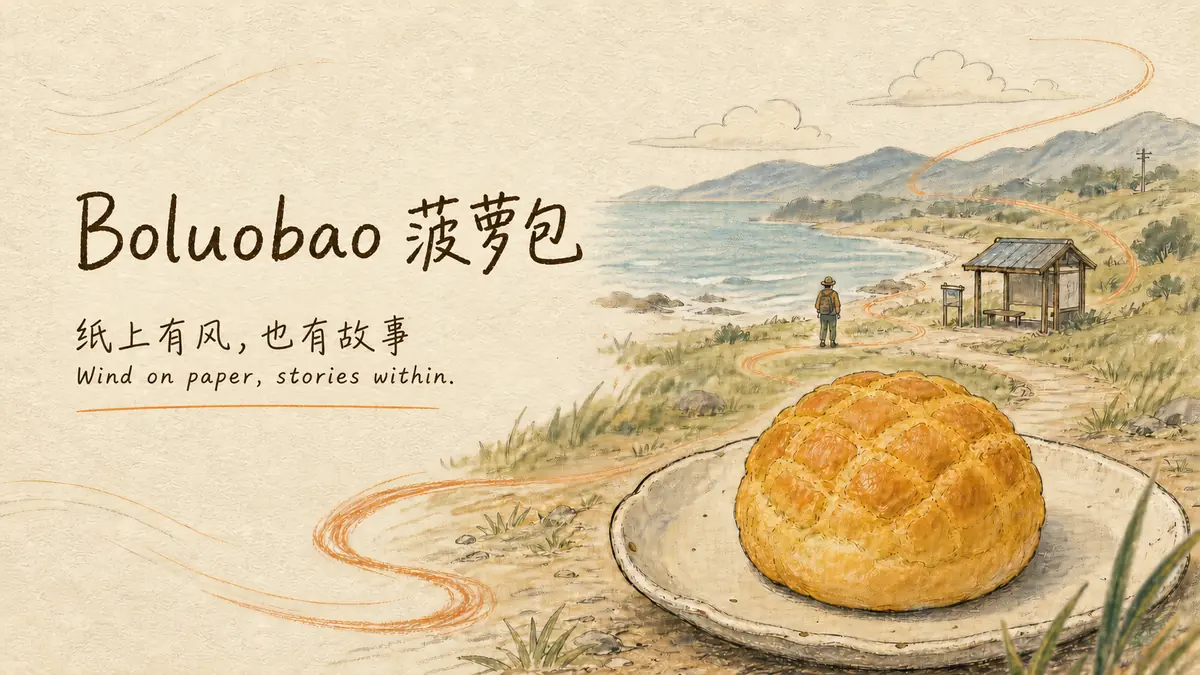
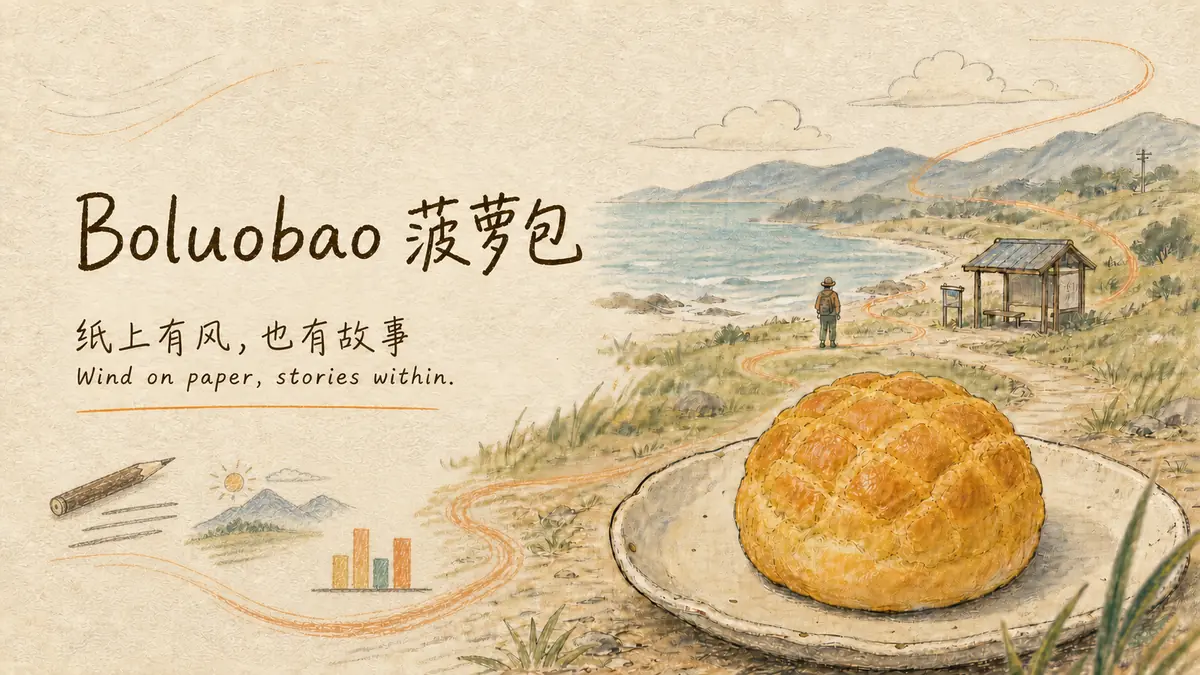
docs: clarify hero capability story

diff --git a/CHANGELOG.md b/CHANGELOG.md
@@ -2,7 +2,7 @@
 
 ## Unreleased
 
-- Added a seamless bilingual `16:9` project hero that brings food, human-scale scenes, and landscape into one continuous paper world.
+- Added a seamless bilingual `16:9` project hero that carries words, image-making, and data cues into food, human-scale scenes, and landscape through one continuous paper world.
 - Rebuilt the GitHub README as a paired Chinese and English project introduction.
 - Added aligned capability showcases for handwritten notes, social covers, editorial illustrations, charts, and tables.
 - Normalized the eight project cases to uncropped `4:5` previews and the four capability boards to `16:9`.

diff --git a/README.md b/README.md
@@ -17,7 +17,7 @@
 </p>
 
 <p align="center">
-  <img src="docs/showcase/boluobao-hero-16x9.webp" width="100%" alt="Boluobao 菠萝包：纸上有风，也有故事">
+  <img src="docs/showcase/boluobao-hero-16x9.webp" width="100%" alt="Boluobao 菠萝包：文字、图片与数据沿纸上风线转化为食物、场景和景色视觉故事">
 </p>
 
 <p align="center">
